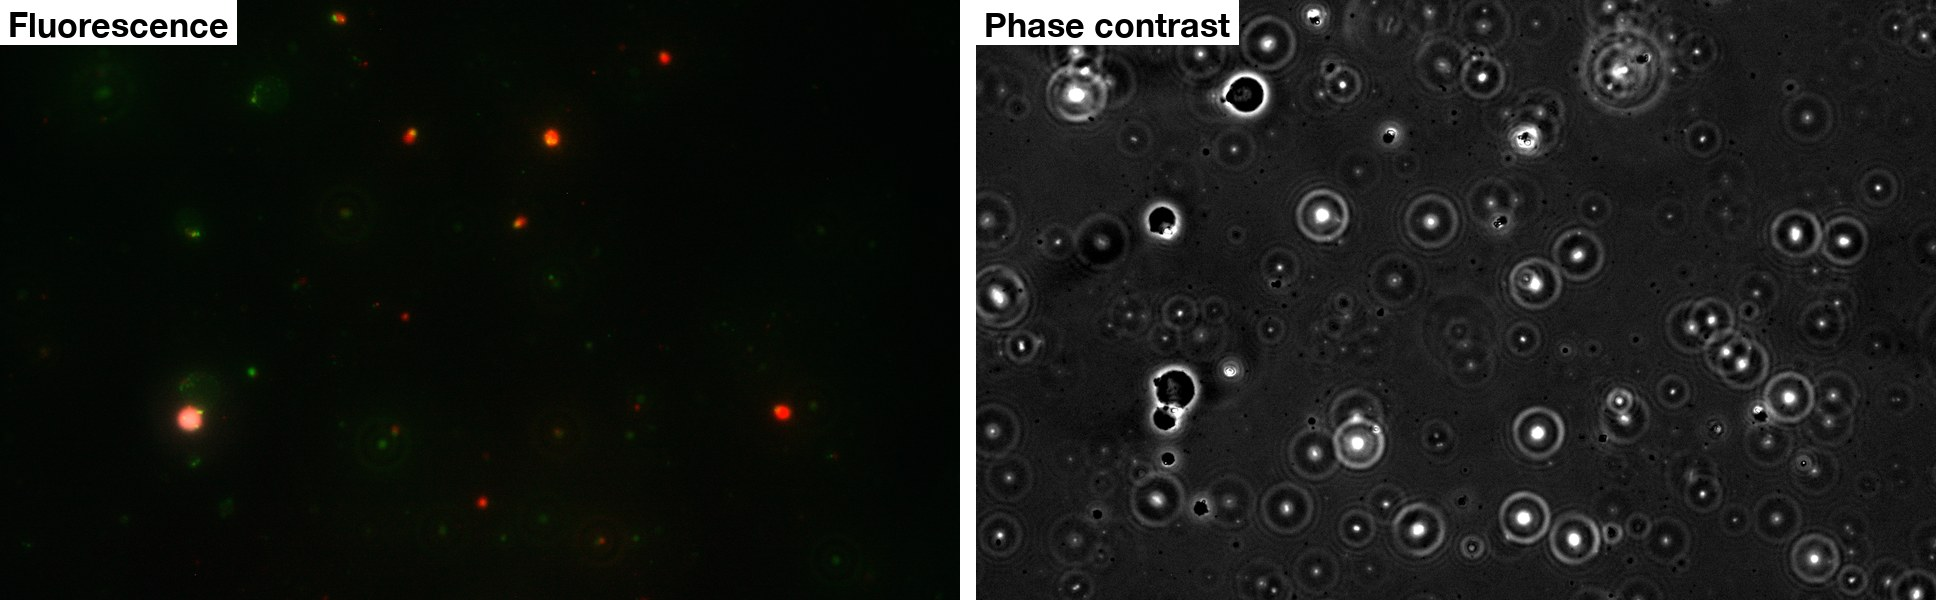
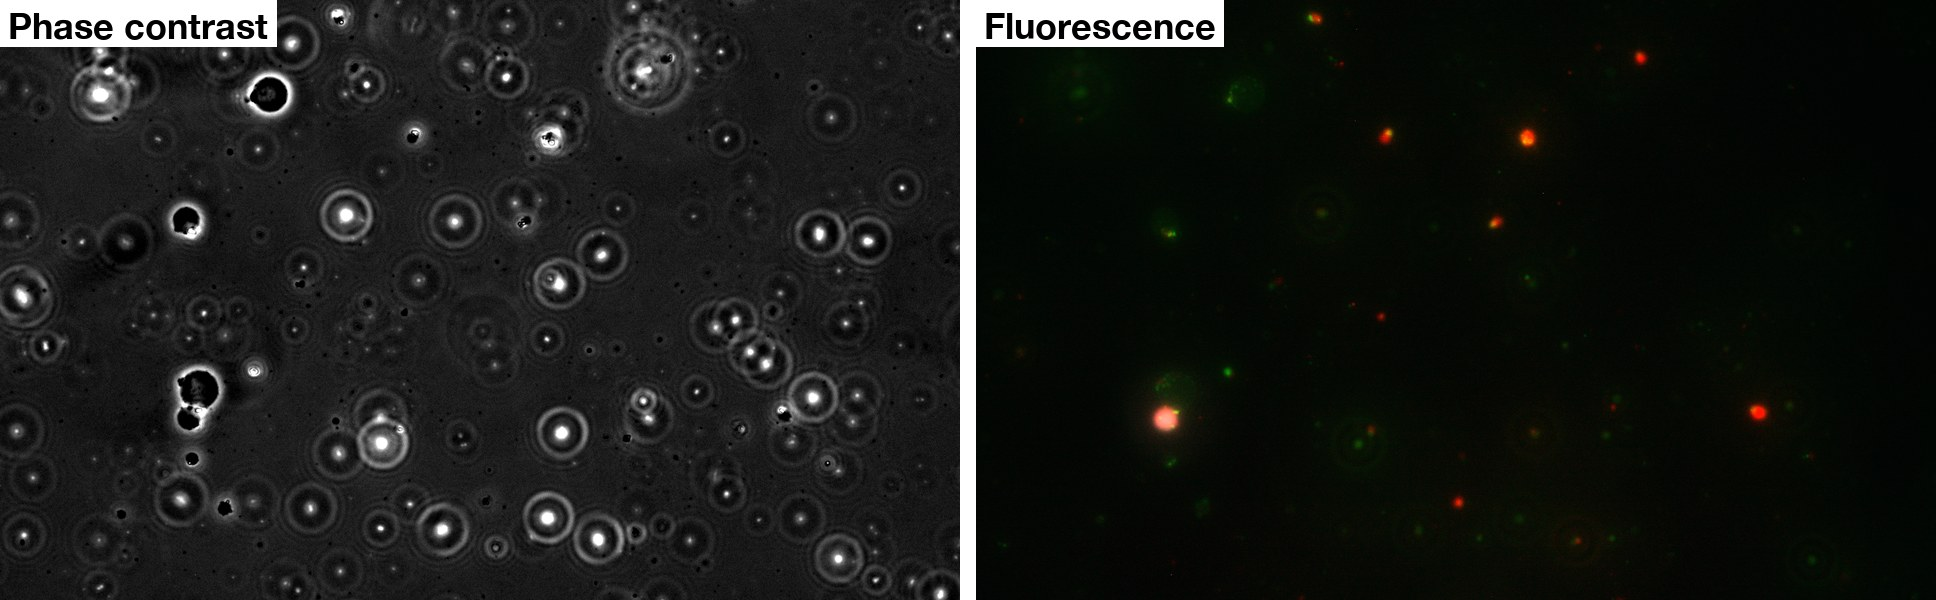
Experiment: phase contrast left / fluorescence right for Fig. 1, 4-7 with new photos

diff --git a/experiment.html b/experiment.html
@@ -101,8 +101,8 @@
                     </p>
                         </div>
                         <figure>
-                        <img src="images/experiment-fig1.jpg" alt="GUVs made by the emulsion transfer method: green fluorescence on the membrane and red fluorescence inside">
-                        <figcaption><strong>Fig. 1 GUVs made by the emulsion transfer method.</strong> The membrane is green (NBD-PE) and the inside is red (sulforhodamine B). Scale bar: 100 µm.</figcaption>
+                        <img src="images/experiment-fig1.jpg" alt="GUVs made by the emulsion transfer method, in phase contrast (left) and fluorescence (right): green membrane and red inside">
+                        <figcaption><strong>Fig. 1 GUVs made by the emulsion transfer method.</strong> Left: phase contrast. Right: fluorescence of the same field; the membrane is green (NBD-PE) and the inside is red (sulforhodamine B). Scale bars: 100 µm.</figcaption>
                     </figure>
                     </div>
                 </div>
@@ -199,8 +199,8 @@
                     </p>
                         </div>
                         <figure>
-                        <img src="images/experiment-fig4.png" alt="GUVs made with alpha-hemolysin in the inner solution; the red fluorescence has gone out">
-                        <figcaption><strong>Fig. 4 GUVs made with αHL in the inner aqueous solution.</strong> The red fluorescence has gone out of most GUVs. Scale bar: 100 µm.</figcaption>
+                        <img src="images/experiment-fig4.jpg" alt="GUVs made with alpha-hemolysin in the inner solution, in phase contrast (left) and fluorescence (right); the red fluorescence has gone out">
+                        <figcaption><strong>Fig. 4 GUVs made with αHL in the inner aqueous solution.</strong> Left: phase contrast. Right: fluorescence of the same field; the red fluorescence has gone out of most GUVs. Scale bars: 100 µm.</figcaption>
                     </figure>
                     </div>
                 </div>
@@ -223,8 +223,8 @@
                     </p>
                         </div>
                         <figure>
-                        <img src="images/experiment-fig5.png" alt="GUVs made with TRIMEB in the outer solution; the red fluorescence stays inside">
-                        <figcaption><strong>Fig. 5 GUVs made with TRIMEB in the outer aqueous solution.</strong> Compared with Fig. 4, the red fluorescence stays inside. Scale bar: 100 µm.</figcaption>
+                        <img src="images/experiment-fig5.jpg" alt="GUVs made with TRIMEB in the outer solution, in phase contrast (left) and fluorescence (right); the red fluorescence stays inside">
+                        <figcaption><strong>Fig. 5 GUVs made with TRIMEB in the outer aqueous solution.</strong> Left: phase contrast. Right: fluorescence of the same field; compared with Fig. 4, the red fluorescence stays inside. Scale bars: 100 µm.</figcaption>
                     </figure>
                     </div>
                 </div>
@@ -249,9 +249,9 @@
                         Fig. 6 shows the stained GUVs. We can see fluorescence around the membrane. From this, we think that the DNA was inserted into the GUV membrane.
                     </p>
                         </div>
-                        <figure class="fig-narrow">
-                        <img src="images/experiment-fig6.png" alt="A GUV stained with SYBR Gold; fluorescence around the membrane">
-                        <figcaption><strong>Fig. 6 A GUV stained with SYBR Gold.</strong> Fluorescence is seen around the membrane.</figcaption>
+                        <figure>
+                        <img src="images/experiment-fig6.png" alt="A GUV stained with SYBR Gold in phase contrast (left) and fluorescence (right); fluorescence around the membrane">
+                        <figcaption><strong>Fig. 6 A GUV stained with SYBR Gold.</strong> Left: phase contrast. Right: fluorescence of the same GUV; fluorescence is seen around the membrane.</figcaption>
                     </figure>
                     </div>
                 </div>
@@ -272,8 +272,8 @@
                     </p>
                         </div>
                         <figure>
-                        <img src="images/experiment-fig7.jpg" alt="The same field in fluorescence and in phase contrast after trying to connect GUVs with DNA">
-                        <figcaption><strong>Fig. 7 The result of connecting GUVs with DNA.</strong> Left: fluorescence. Right: phase contrast of the same field. Only a very small part of the GUVs were connected as intended.</figcaption>
+                        <img src="images/experiment-fig7.jpg" alt="The same field in phase contrast (left) and fluorescence (right) after trying to connect GUVs with DNA">
+                        <figcaption><strong>Fig. 7 The result of connecting GUVs with DNA.</strong> Left: phase contrast. Right: fluorescence of the same field. Only a very small part of the GUVs were connected as intended.</figcaption>
                     </figure>
                     </div>
                 </div>
